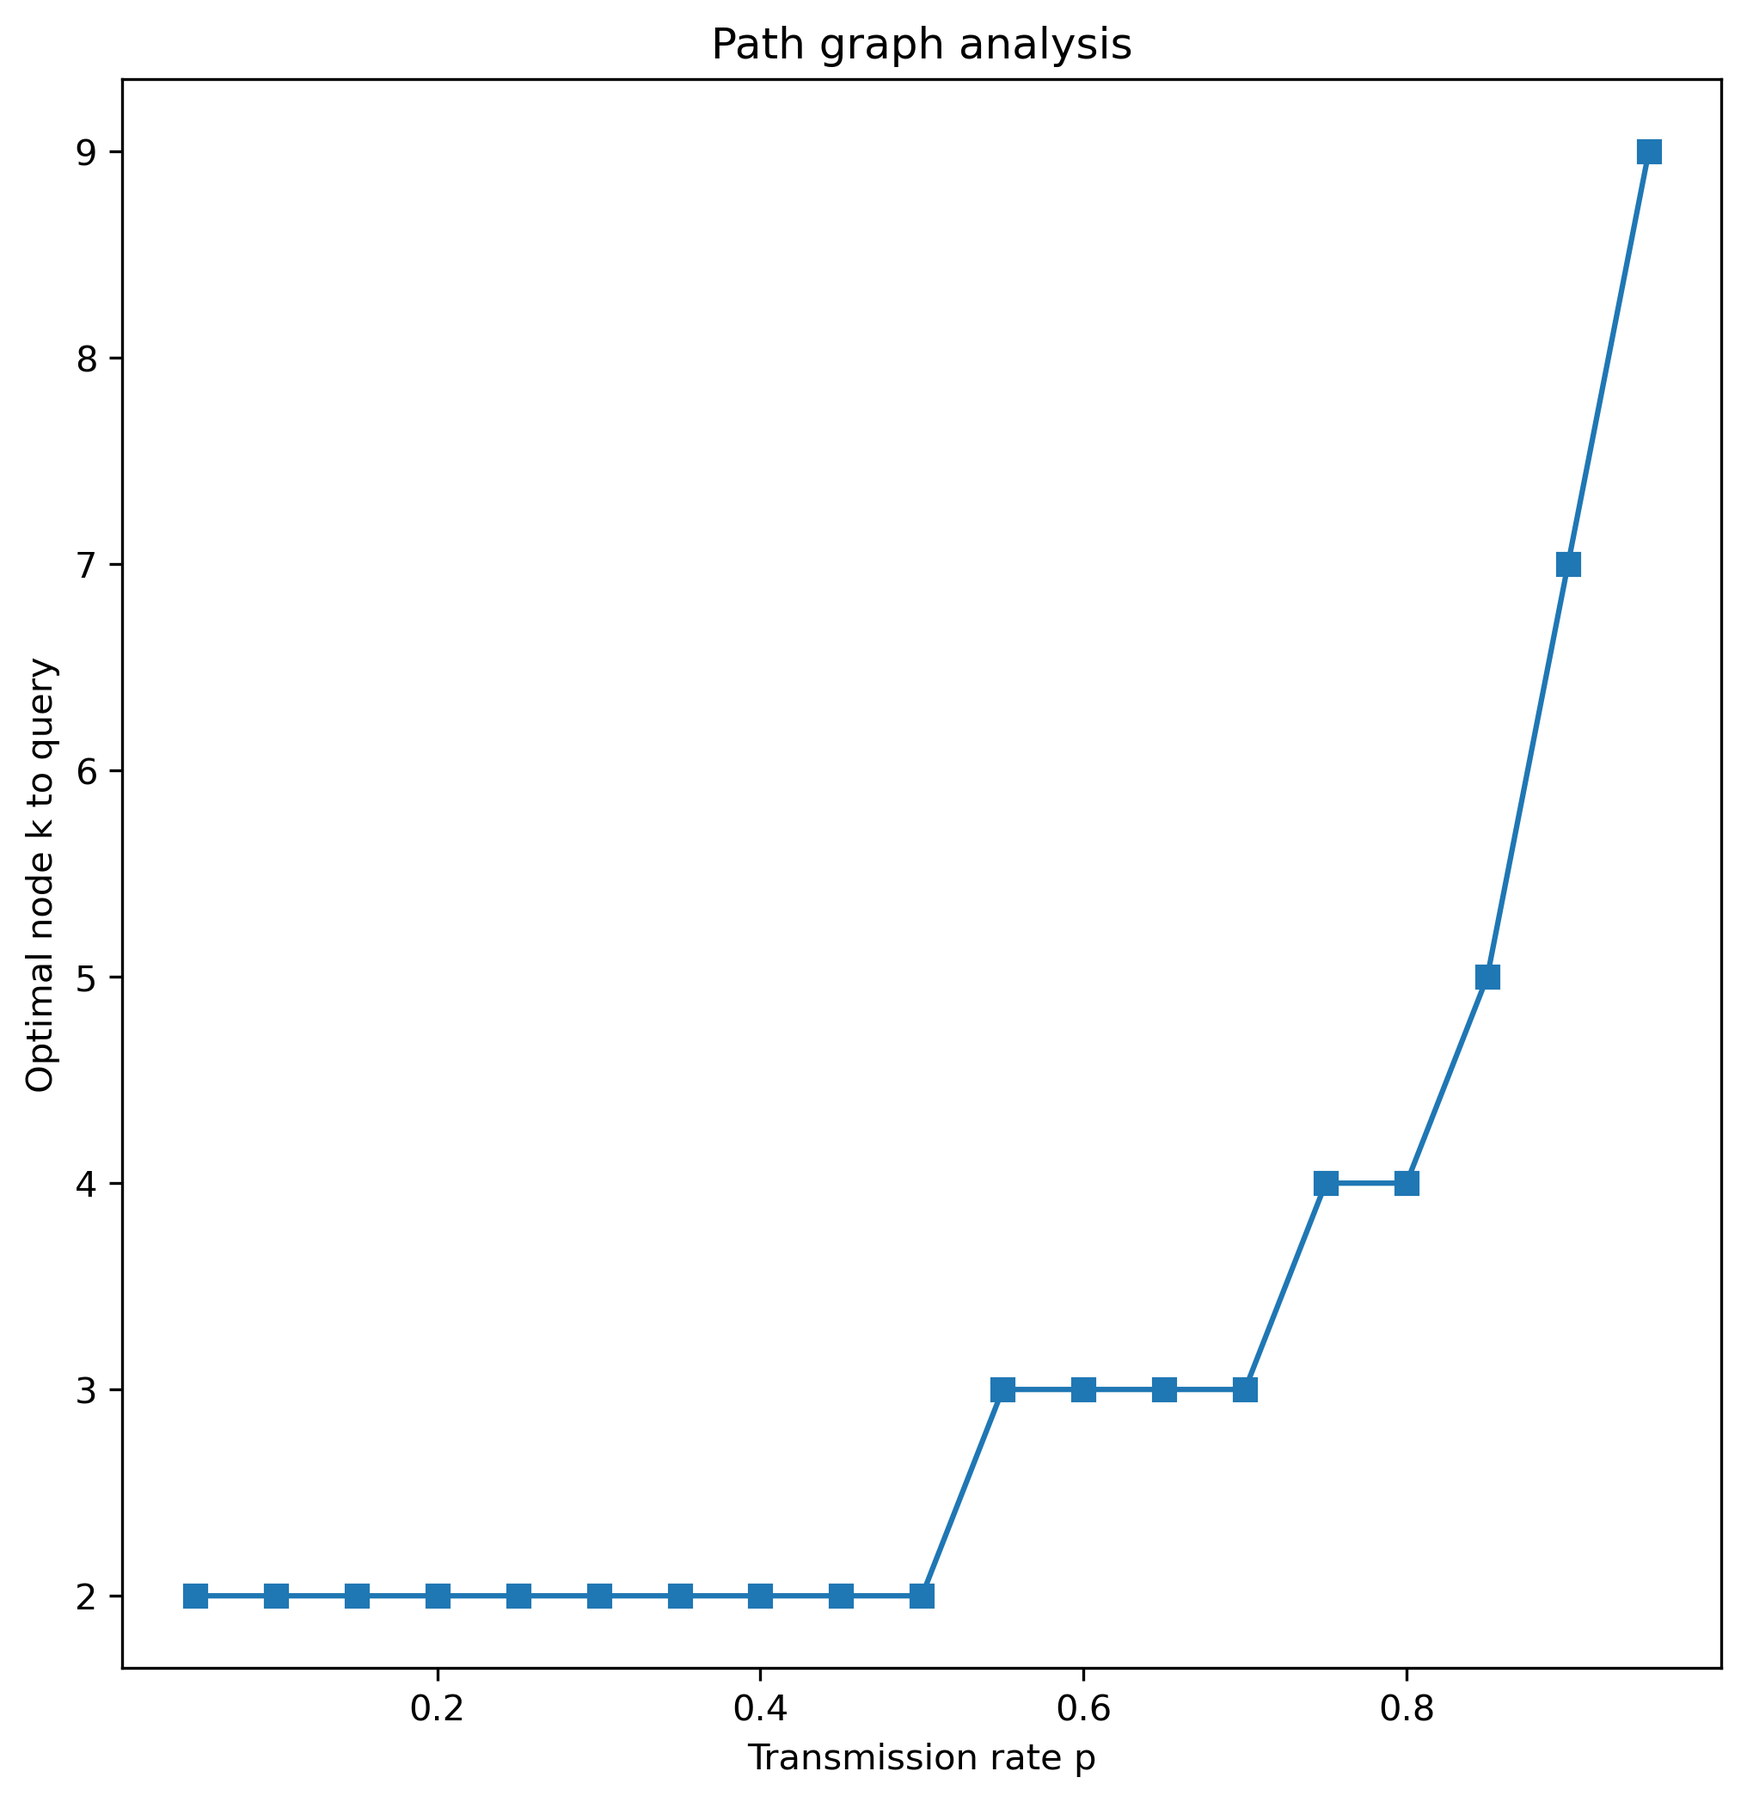
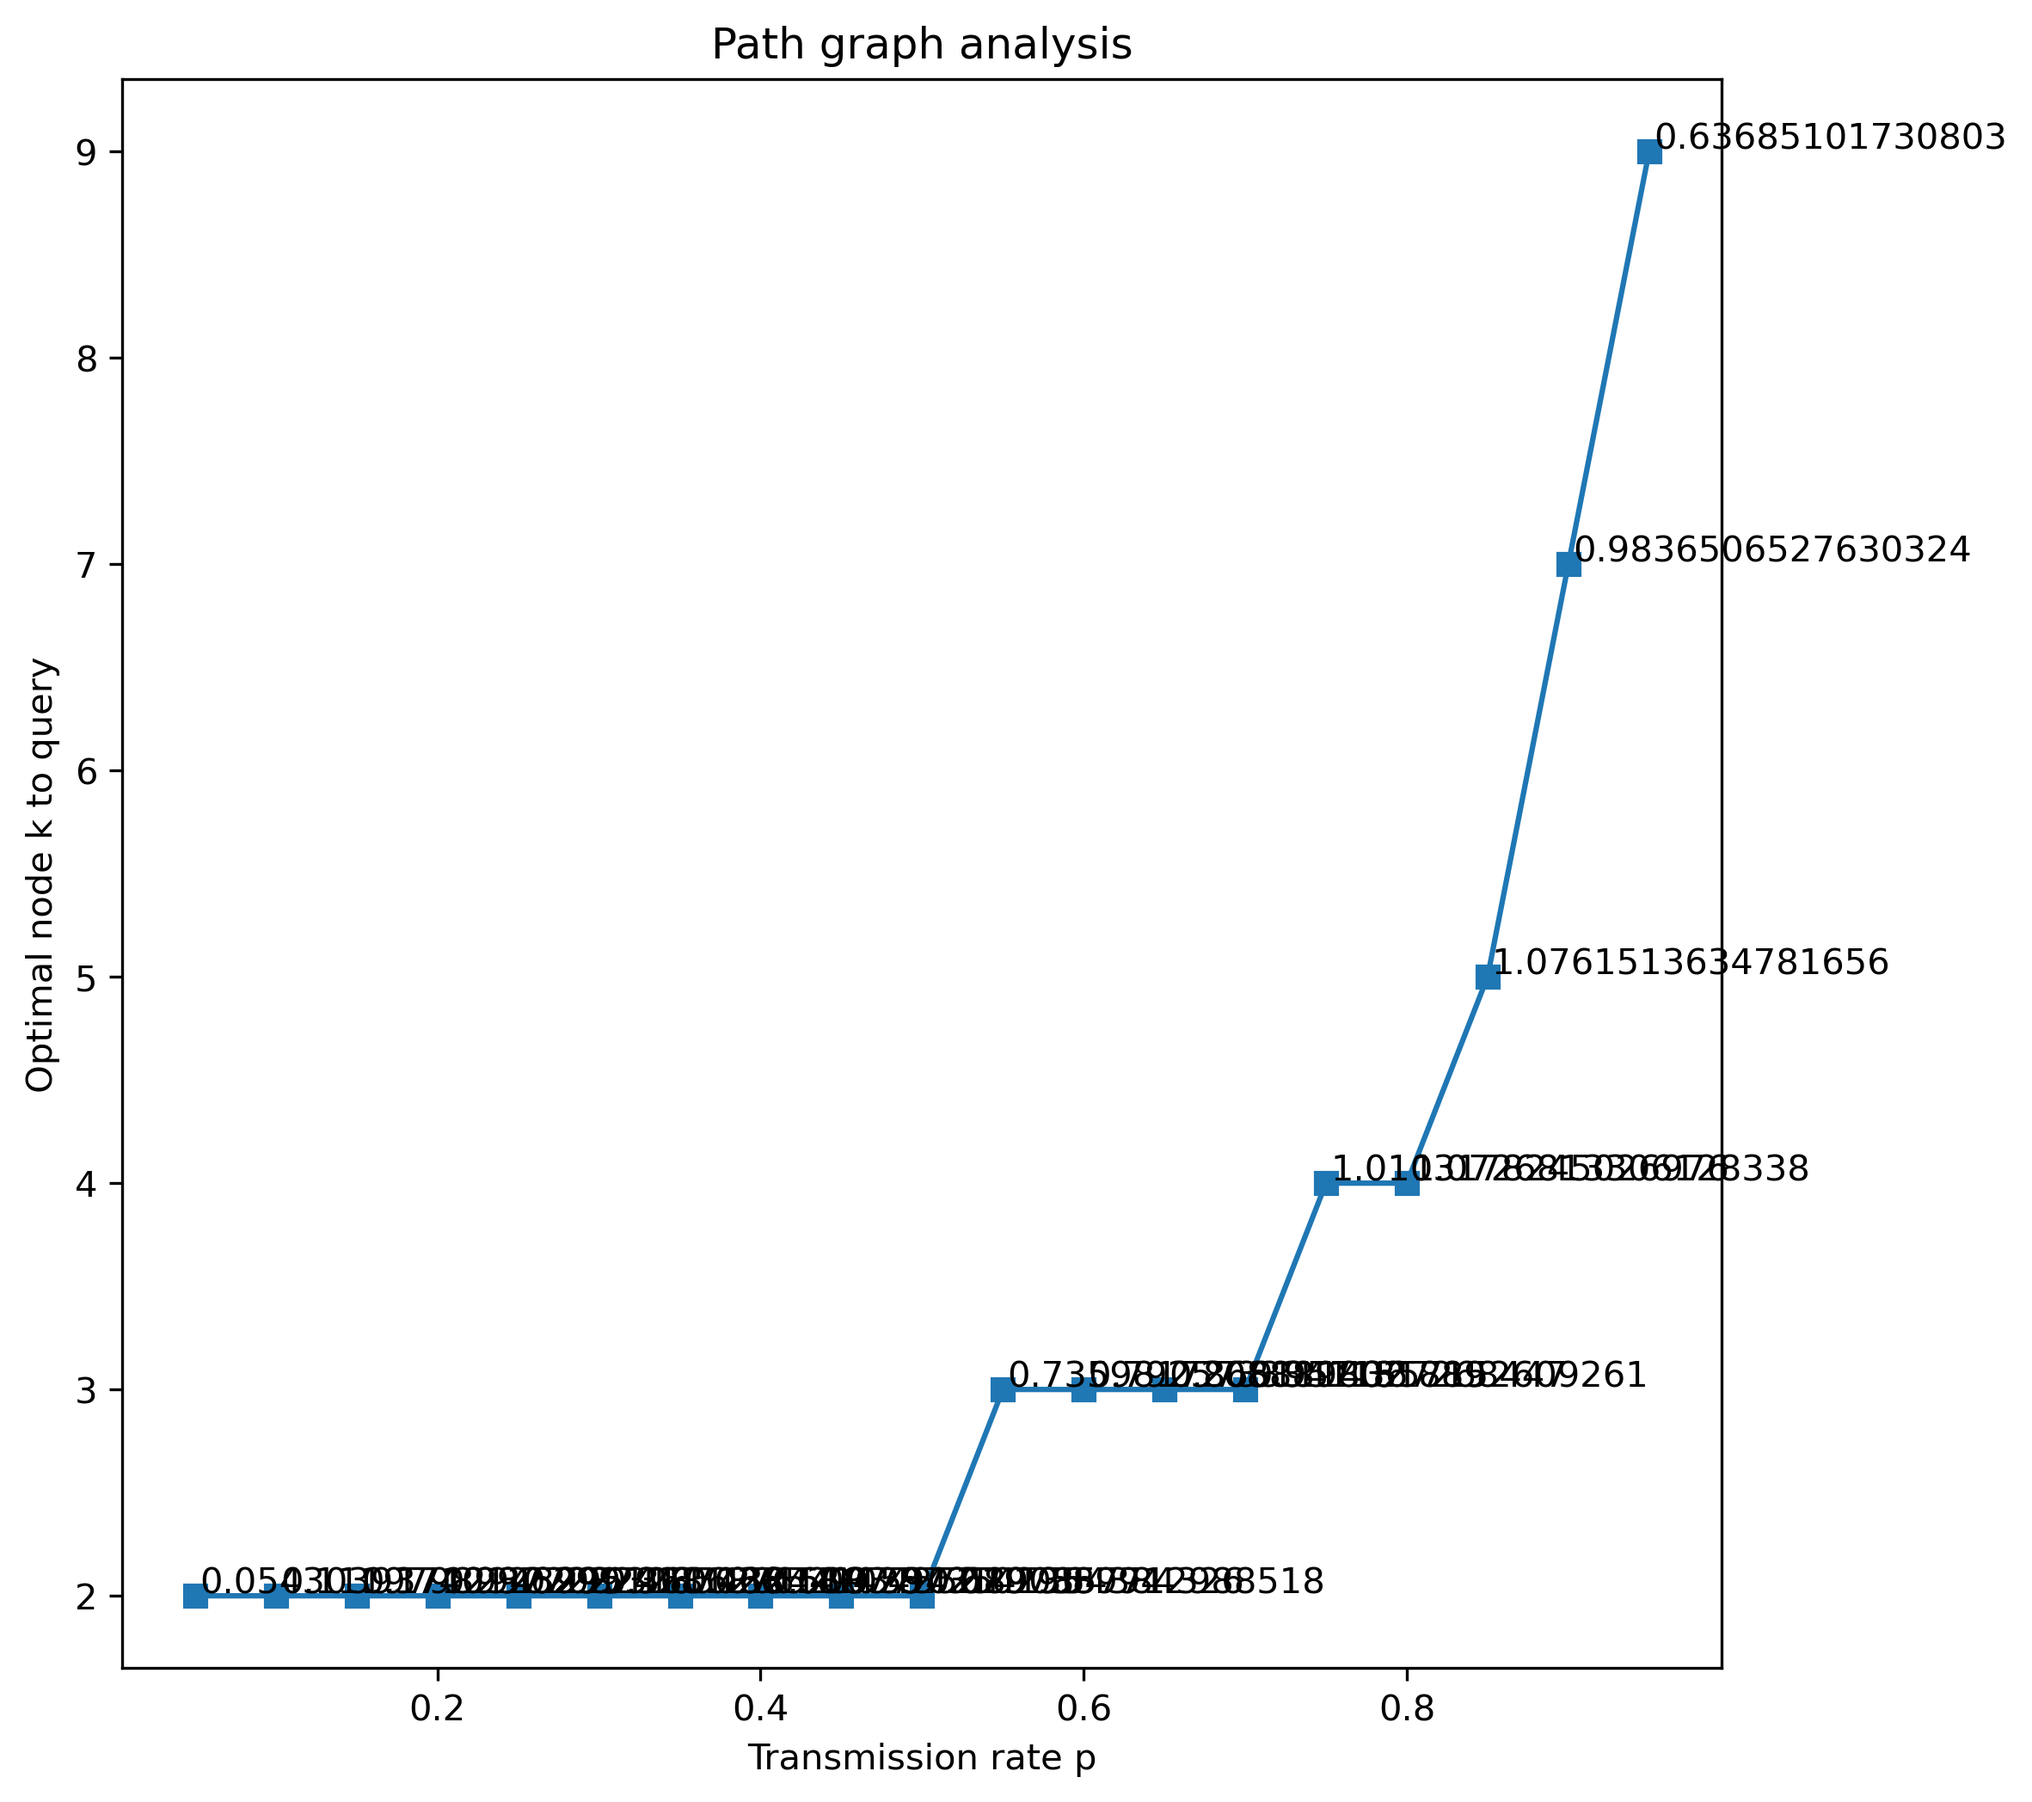
Add annotations to plots

diff --git a/path_graph.py b/path_graph.py
@@ -39,18 +39,25 @@ def optimal_k_cond_entropy(p, N):
             min_cond_entropy = cond_entropy_k
         k+=1
     
-    return k_opt     
+    return k_opt, min_cond_entropy 
     
 
 def main():
     N_list = [5, 10, 20, 50, 100, 500]
     for N in N_list:
         k_opt_list = []
+        min_cond_entropy_list = []
         p_list = np.arange(0.05, 1, 0.05).tolist()
         for p in p_list:
-            k_opt_list.append(optimal_k_cond_entropy(p, N))
+            k_opt, min_cond_entropy = optimal_k_cond_entropy(p, N)
+            k_opt_list.append(k_opt)
+            min_cond_entropy_list.append(min_cond_entropy)
+            
         fig, ax = plt.subplots(figsize=(8,8))
         ax.plot(p_list, k_opt_list, marker='s')
+        for i in range(len(p_list)):
+            ax.annotate(min_cond_entropy_list[i], (p_list[i], k_opt_list[i]), \
+                xytext=(5,3),textcoords = "offset pixels")
         ax.set_xlabel('Transmission rate p')
         ax.set_ylabel('Optimal node k to query')
         ax.set_title('Path graph analysis')
